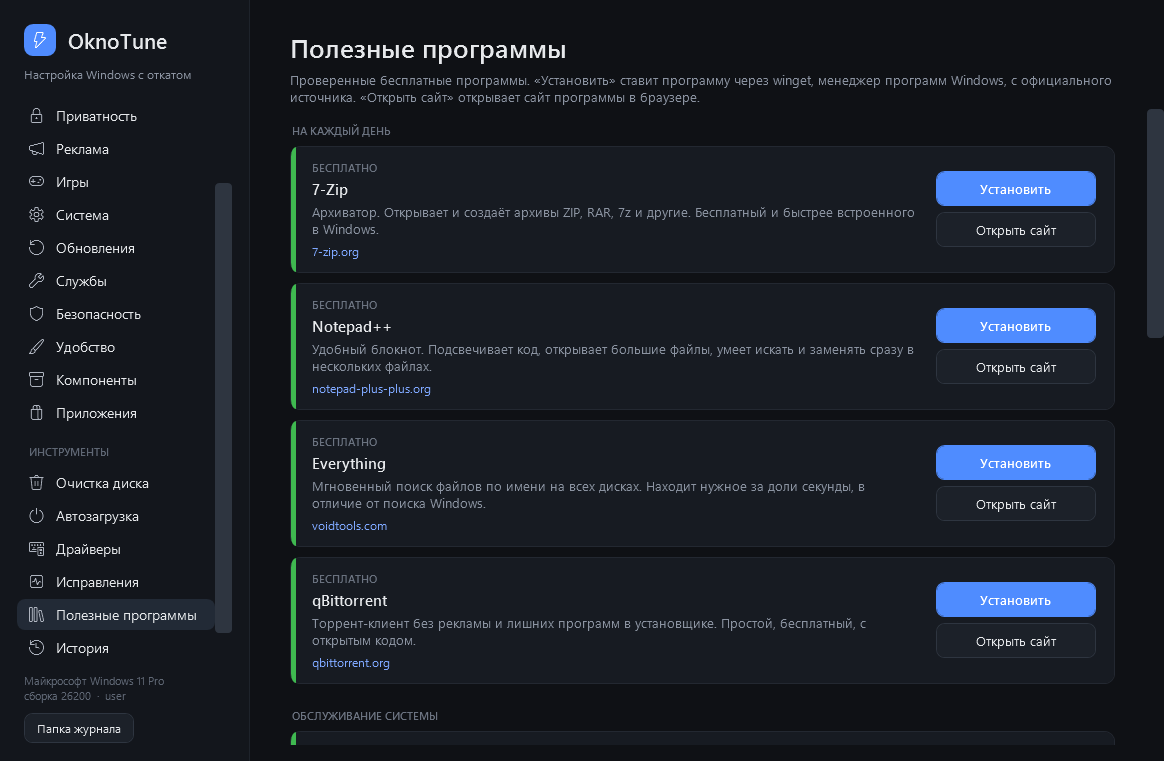
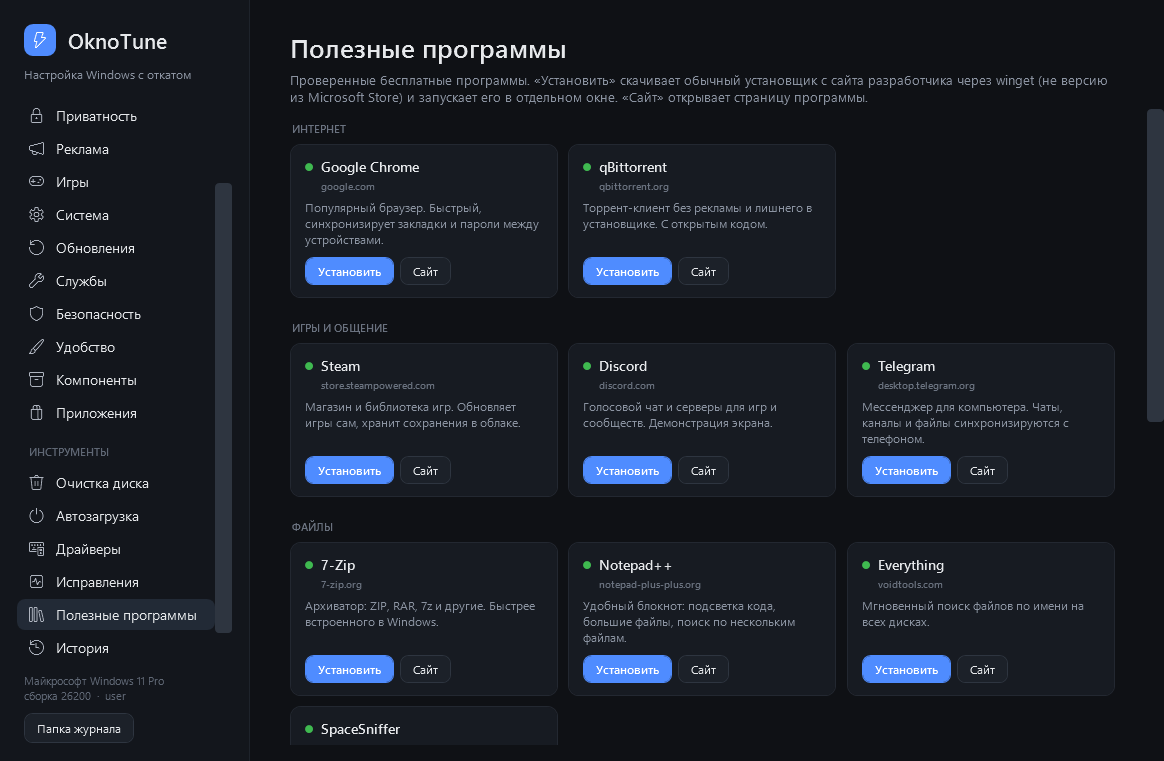
Программы плитками, Steam/Discord/Chrome/Telegram, run.ps1 из релиза
- «Полезные программы»: плитки по три в ряд в 5 небольших группах,
  на экран влезает 8–9 программ вместо 4
- добавлены Google Chrome, Steam, Discord, Telegram (обычные установщики)
- winget install -s winget: только каталог winget, без версий из Store
- run.ps1 скачивает OknoTune.ps1 из последнего релиза: пользователи
  получают выпущенную версию, GitHub считает запуски как загрузки

diff --git a/README.md b/README.md
@@ -76,15 +76,16 @@ Windows попросит права администратора: нажмите
 
 ![Полезные программы](docs/apps.png)
 
-«Установить» ставит программу через **winget**, менеджер программ Windows, в отдельном окне. Условия лицензии winget покажет там же, принимаете их вы сами. Если пакета в winget нет, кнопка открывает официальный сайт.
+«Установить» ставит программу через **winget**, менеджер программ Windows, в отдельном окне. winget скачивает обычный установщик с сайта разработчика, версии из Microsoft Store не используются. Условия лицензии winget покажет там же, принимаете их вы сами. Если пакета в winget нет, кнопка открывает официальный сайт.
 
 OknoTune не распространяет эти программы: он даёт ссылку или передаёт установку winget. У каждой программы своя лицензия. Например, Dr.Web CureIt! бесплатен только для домашнего использования.
 
 | Категория | Программы |
 |---|---|
-| 📅 На каждый день | 7-Zip, Notepad++, Everything, qBittorrent |
-| 🛠 Обслуживание системы | HiBit Uninstaller, SpaceSniffer, Easy Service Optimizer |
-| 🔌 Драйверы и устройства | DriverStore Explorer, Device Cleanup Tool |
+| 🌐 Интернет | Google Chrome, qBittorrent |
+| 🎮 Игры и общение | Steam, Discord, Telegram |
+| 📁 Файлы | 7-Zip, Notepad++, Everything, SpaceSniffer |
+| 🛠 Обслуживание системы | HiBit Uninstaller, Easy Service Optimizer, DriverStore Explorer, Device Cleanup Tool |
 | 🛡 Проверка на вирусы | Kaspersky Virus Removal Tool, Dr.Web CureIt!, AdwCleaner |
 
 ---
